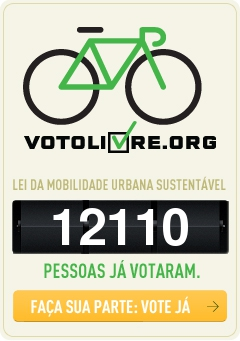
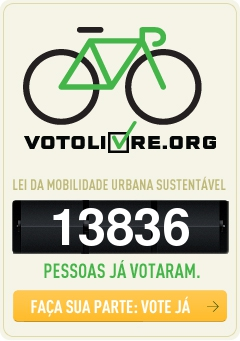
Correção da consulta de votos no VotoLivre.org.

Changed region(s): [[0.3208, 0.5865, 0.7875, 0.7331]]

diff --git a/wp-content/votolivre/img.php b/wp-content/votolivre/img.php
@@ -1,20 +1,19 @@
 <?php
 
+    ini_set('display_errors', 1);
+
     $img_bg = 'img-bg.jpg';
     $img_cache = 'img-cache.jpg';
     $img_font = './freesansbold.ttf';
     $url = 'https://www.votolivre.org';
 
     function get_page ($url) {
-        $ch = curl_init ();
-        curl_setopt ($ch, CURLOPT_URL, $url);
-        curl_setopt ($ch, CURLOPT_RETURNTRANSFER, 1);
-        $data = curl_exec ($ch);
-        curl_close($ch);
+        $data = @file_get_contents($url);
         return $data;
     }
 
     function parse_count ($data) {
+        echo $data;
         preg_match ('/<h1>([0-9]*)<\/h1>/', $data, $m);
         return $m[1];
     }
